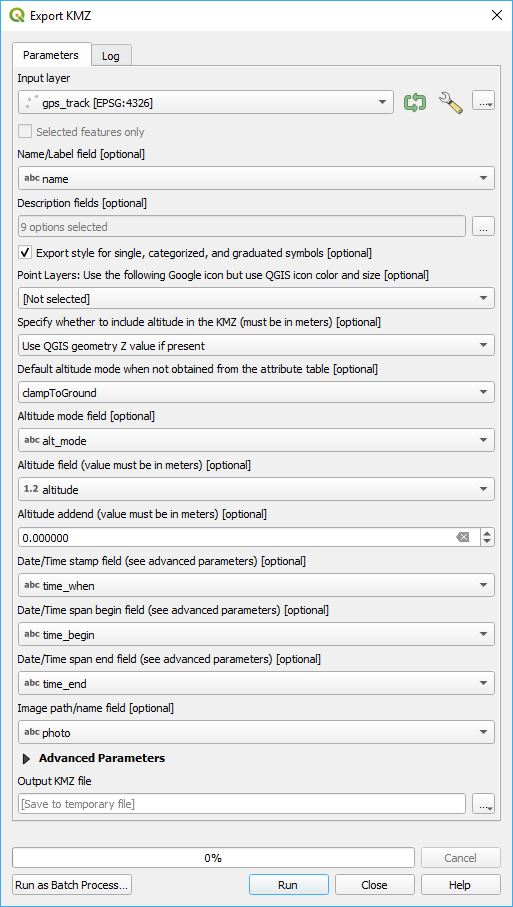
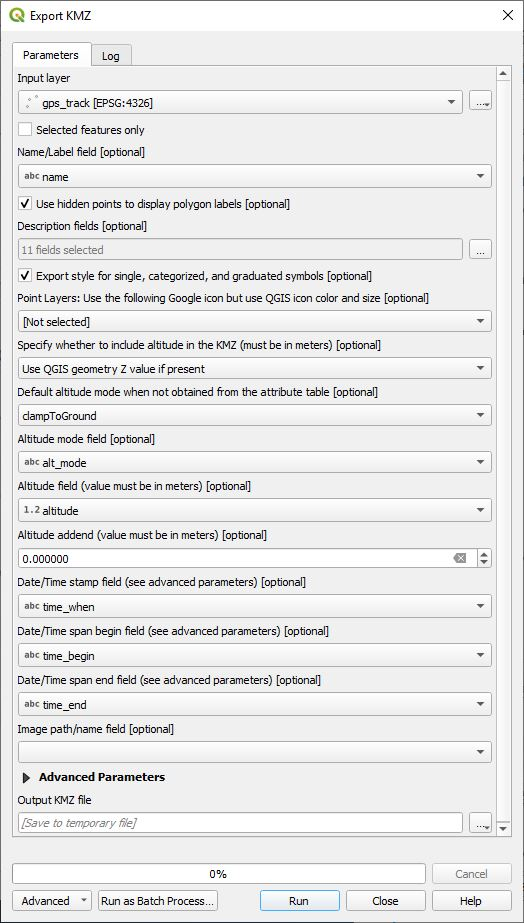
Make polygon hidden point label optional.

diff --git a/index.html b/index.html
@@ -88,6 +88,7 @@ code {
 <p>The following describes some of the functionality.</p>
 <ul>
 <li><strong><em>Name/Label field</em></strong> - This is the name or label that will be displayed in Google Earth.</li>
+<li><strong><em>Use hidden points to display polygon labels</em></strong> - Labels on polygons are not normally displayed in Google Earth. By checking this box a hidden point will be created at the polygon's centroid so that a label will be displayed over the polygon.</li>
 <li><strong><em>Description fields</em></strong> - By default all fields are selected to be included in the KMZ. When the user clicks on a placemark in Google Earth, these fields will be displayed. If only one field is specified then it will be treated as a description field.</li>
 <li><strong><em>Export style for single, categorized, and graduated symbols</em></strong> - Select this if you want to export the QGIS style information to KML. Note that for lines and polygons, you can only use simple styles. If the style is not single, categorized, or graduated, then no style information will be exported.</li>
 <li><strong><em>Point layers: Use the following Google icon, but use QGIS icon color and size</em></strong> - Rather than display the QGIS icon shape, you can select one of the Google Earth icon shapes to be displayed for point features. The size and color of the icon will be determined by QGIS.</li>

diff --git a/exportKmz.py b/exportKmz.py
@@ -54,6 +54,7 @@ class ExportKmzAlgorithm(QgsProcessingAlgorithm):
     PrmSelectedFeaturesOnly = 'SelectedFeaturesOnly'
     PrmOutputKmz = 'OutputKmz'
     PrmNameField = 'NameField'
+    PrmHiddenPolygonPointLabel = 'HiddenPolygonPointLabel'
     PrmDescriptionField = 'DescriptionField'
     PrmExportStyle = 'ExportStyle'
     PrmUseGoogleIcon = 'UseGoogleIcon'
@@ -100,6 +101,13 @@ class ExportKmzAlgorithm(QgsProcessingAlgorithm):
                 defaultValue='name',
                 optional=True
             )
+        )
+        self.addParameter(
+            QgsProcessingParameterBoolean(
+                self.PrmHiddenPolygonPointLabel,
+                'Use hidden points to display polygon labels',
+                False,
+                optional=True)
         )
         if Qgis.QGIS_VERSION_INT >= 31200:
             self.addParameter(
@@ -318,6 +326,7 @@ class ExportKmzAlgorithm(QgsProcessingAlgorithm):
         desc_fields = self.parameterAsFields(parameters, self.PrmDescriptionField, context)
         desc_cnt = len(desc_fields)
         export_style = self.parameterAsInt(parameters, self.PrmExportStyle, context)
+        poly_hidden_point_label = self.parameterAsInt(parameters, self.PrmHiddenPolygonPointLabel, context)
         if self.PrmUseGoogleIcon not in parameters or parameters[self.PrmUseGoogleIcon] is None:
             google_icon = None
         else:
@@ -421,7 +430,7 @@ class ExportKmzAlgorithm(QgsProcessingAlgorithm):
                 except Exception:
                     altitude = 0
 
-            if geom.isMultipart() or (name_field and geomtype == QgsWkbTypes.PolygonGeometry):
+            if geom.isMultipart() or (name_field and geomtype == QgsWkbTypes.PolygonGeometry and poly_hidden_point_label):
                 kmlgeom = folder.newmultigeometry()
                 kml_item = kmlgeom
             else:
@@ -450,7 +459,7 @@ class ExportKmzAlgorithm(QgsProcessingAlgorithm):
                     else:
                         kmlpart.coords = [(pt.x(), pt.y(), altitude + altitude_addend) for pt in part]
             elif geomtype == QgsWkbTypes.PolygonGeometry:  # POLYGONS
-                if name_field:
+                if name_field and poly_hidden_point_label:
                     try:
                         centroid = geom.centroid().asPoint()
                         name = '{}'.format(feature[name_field])

diff --git a/readme.md b/readme.md
@@ -60,6 +60,7 @@ This provides the ability to export a QGIS point, line, or polygon layer as a Go
 The following describes some of the functionality.
 
 * ***Name/Label field*** - This is the name or label that will be displayed in Google Earth.
+* ***Use hidden points to display polygon labels*** - Labels on polygons are not normally displayed in Google Earth. By checking this box a hidden point will be created at the polygon's centroid so that a label will be displayed over the polygon.
 * ***Description fields*** - By default all fields are selected to be included in the KMZ. When the user clicks on a placemark in Google Earth, these fields will be displayed. If only one field is specified then it will be treated as a description field.
 * ***Export style for single, categorized, and graduated symbols*** - Select this if you want to export the QGIS style information to KML. Note that for lines and polygons, you can only use simple styles. If the style is not single, categorized, or graduated, then no style information will be exported.
 * ***Point layers: Use the following Google icon, but use QGIS icon color and size*** - Rather than display the QGIS icon shape, you can select one of the Google Earth icon shapes to be displayed for point features. The size and color of the icon will be determined by QGIS.
